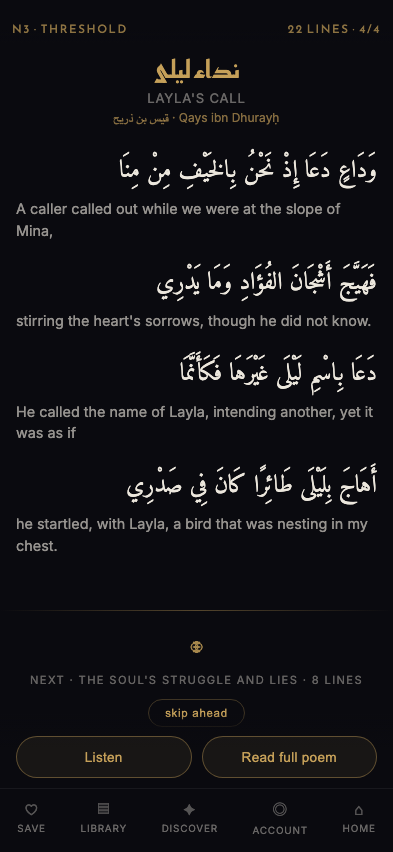
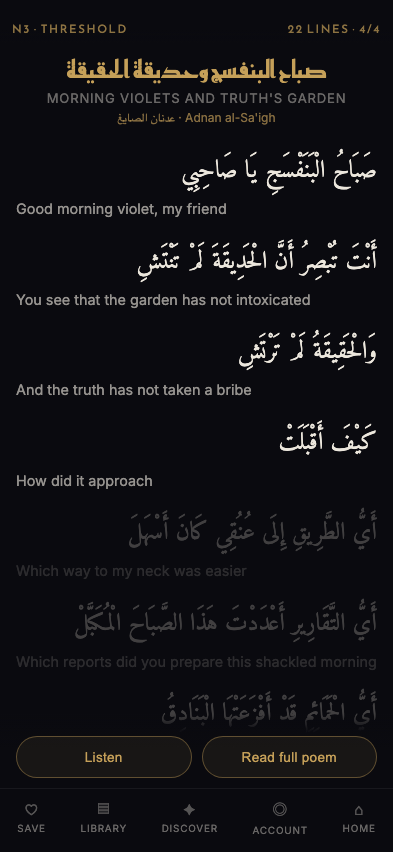
docs(nav): write up the three owner tweaks with measurements and shots
Quantifies the right-alignment call: its cost lands only on English lines that
wrap, and removing the scrubber lane takes wrapping from 20/44 lines to 8/44.
So the alignment decision hangs off the scrubber decision.

Also gives the hint a ground shadow — on a long poem a verse scrolled straight
through it.

diff --git a/design-review/poem-navigation/styles.css b/design-review/poem-navigation/styles.css
@@ -302,4 +302,10 @@ body {
   color: rgba(197, 160, 89, 0.55);
   pointer-events: none;
   transition: opacity 0.4s ease;
+  /* The hint floats above the scrim's solid band, so on a long poem a verse scrolls right
+     through it. A ground shadow rather than a box: keeps it legible without adding chrome. */
+  text-shadow:
+    0 0 7px var(--bg),
+    0 0 14px var(--bg),
+    0 0 20px var(--bg);
 }

diff --git a/design-review/poem-navigation/README.md b/design-review/poem-navigation/README.md
@@ -135,6 +135,62 @@ If only one thing ships: **N3's threshold principle**, because it's the part tha
 
 ---
 
+## Owner tweaks, second pass
+
+### 1. Right-aligning everything — it depends on the scrubber decision
+
+`?align=classic|head|right` (default `right`). Content alignment only; `direction` is untouched and chrome stays LTR.
+
+Classic put **three axes in one column**: a centred head, right-set Arabic, left-set English. Nobody argued for the centred head — it is the odd one out, and moving it costs nothing.
+
+The English is the real question. Right-aligning LTR text leaves each line's **start** ragged, and the start is the edge a Latin reader's eye returns to. So the cost lands **only on English lines that wrap** — a one-line translation right-aligns for free.
+
+Measured across all 44 English lines of all four poems:
+
+| | Wrapped English lines |
+|---|---:|
+| Scrubber lane **on** | **20 of 44** (45%) |
+| Scrubber lane **off** | **8 of 44** (18%) |
+
+That is the same 56px the type-size argument turns on, showing up a third time. Removing the lane doesn't just buy Arabic size and fewer wrapped rows — it also **removes most of what right-alignment costs**.
+
+**Recommendation: ship `right`, conditional on the scrubber going.** If the lane stays, ship `head` — the head and byline join the right edge, the English keeps its left start, and you get most of the unification for none of the cost.
+
+### 2. N4 · Seal — the summon happens to the screen
+
+The hold is a build, not a wait:
+
+- **hold** — the poem recedes and dims, a gold bloom grows out of the seal, a vignette closes in around it, the ring charges, the letter takes the glow.
+- **commit** — a ring bursts outward, sparks throw wider, and the spent poem lifts and dissolves rather than being cut away.
+- **arrive** — the verses land in sequence while a band of gold light travels down the column: the sparkler's lit-in-sequence idea at poem scale.
+
+`HOLD` went 620ms → **760ms**, because at 620 the bloom had not finished growing before it fired.
+
+**What it costs, and why it holds.** Every layer animates transform and opacity only. The poem's recede is a class-toggled CSS transition, so no per-frame JS touches the 22 verse rows; `--p` is read by two childless overlay divs, which bounds per-frame style invalidation at four small elements. The verse stagger is **transform only** — opacity stays owned by `.ahead`/`.read`, so the poem still arrives dimmed-ahead and the sparkler reveal still has work to do. The light sweep is one translating element instead of an animation on every verse.
+
+Measured over a full summon on the 22-verse poem: **350 frames, median 8.3ms, worst 9.7ms, zero frames over 16.7ms.** That is desktop headless, not a phone — the architecture is what should carry it to device, and it still wants confirming there. `prefers-reduced-motion` drops the whole effect.
+
+The real cost is **time**: from press to a settled new poem is ~1.6s (760 hold + 340 dissolve + ~520 stagger). Deliberate by design, but it is not a control you would want to use twenty times in a row.
+
+### 3. N3 · Threshold — staged handoff, and the flaw is fixed
+
+1. **reading** — one poem, scrolling normally. Nothing on screen about what's next.
+2. **offered** — the reader reaches the bottom and settles; only then does *scroll for the next poem* appear, naming the next poem and its length.
+3. **pulling** — a second, distinct gesture past the stop fills the meter.
+4. **locked** — the next poem arrives and locks to top.
+
+**This fixes the disqualifying flaw.** The ambiguous Save/Listen target came from two poems being on screen at a boundary. With arrival locked to top, **every resting state has exactly one current poem**. The only two-poem moment is the 260ms crossfade — a transition, not a state a reader can sit in and press a button. I looked for surviving ambiguity and did not find any: there is no scroll position that leaves two poems addressable.
+
+**The gesture that arrives cannot also commit.** A pull only counts if its gesture *began* after the offer appeared. That is #707's pointerdown latch applied to a boundary instead of an axis — the flick that carries you to the bottom must not carry you past it. On wheel, gesture boundaries are inferred from a 140ms pause; a run already in flight when the offer lands stays spent until it stops.
+
+**Two things the build turned up.**
+
+*The affordance cannot grow.* If the handoff block expanded when it appeared it would add scroll height, the reader would stop being at the bottom, and the offer would retract the frame after it was made. It is a fixed 118px in the flow at all times; only its contents fade in.
+
+*A short poem has no bottom to reach.* The 4-line epigram fits the viewport with room to spare, so it is "at the end" the instant it arrives and the stage machine collapses — the offer appeared 260ms after arrival, over a poem nobody had read. A **1400ms floor** on time-since-arrival stands in for the scroll that never happens. Long poems have already spent far more than that getting to the bottom, so the floor never binds for them.
+
+Tap or keyboard on the chevron is an equal path to over-pulling.
+
 ## Verify it yourself
 
 ```bash
